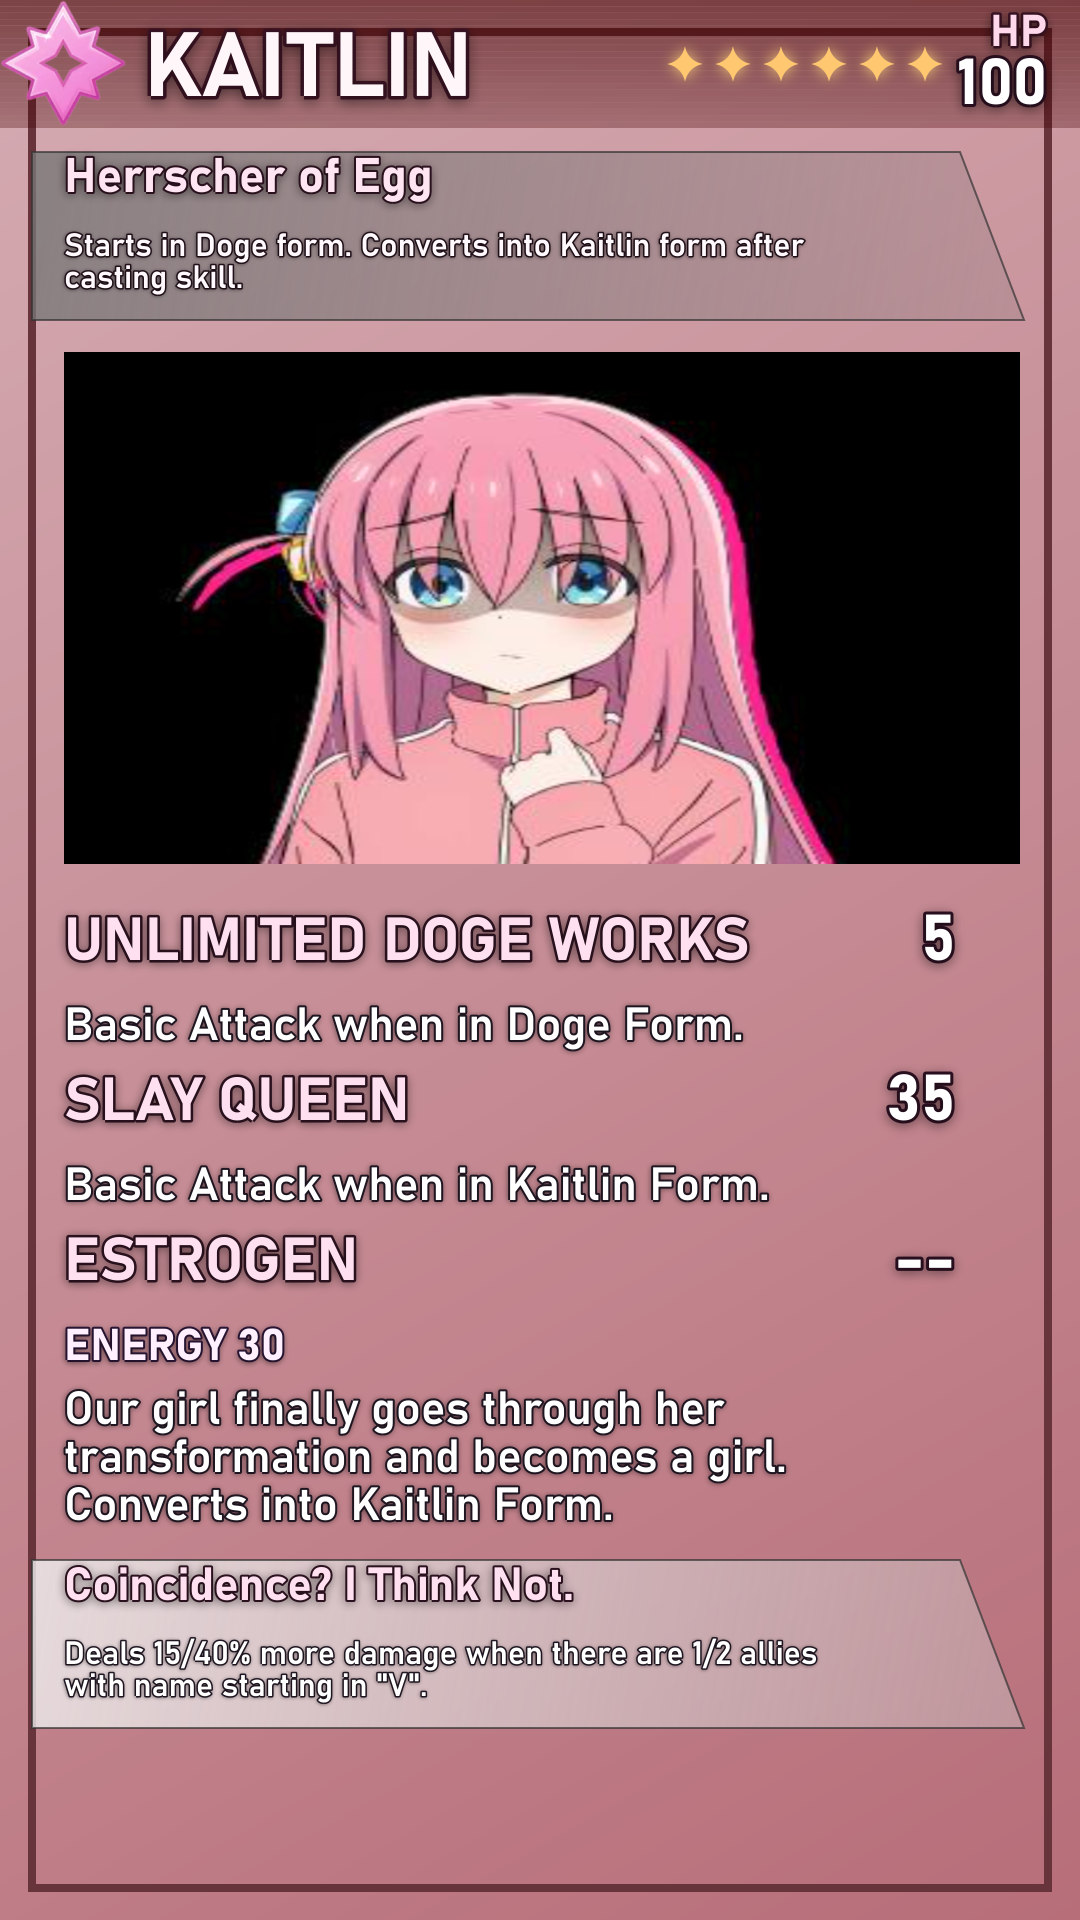
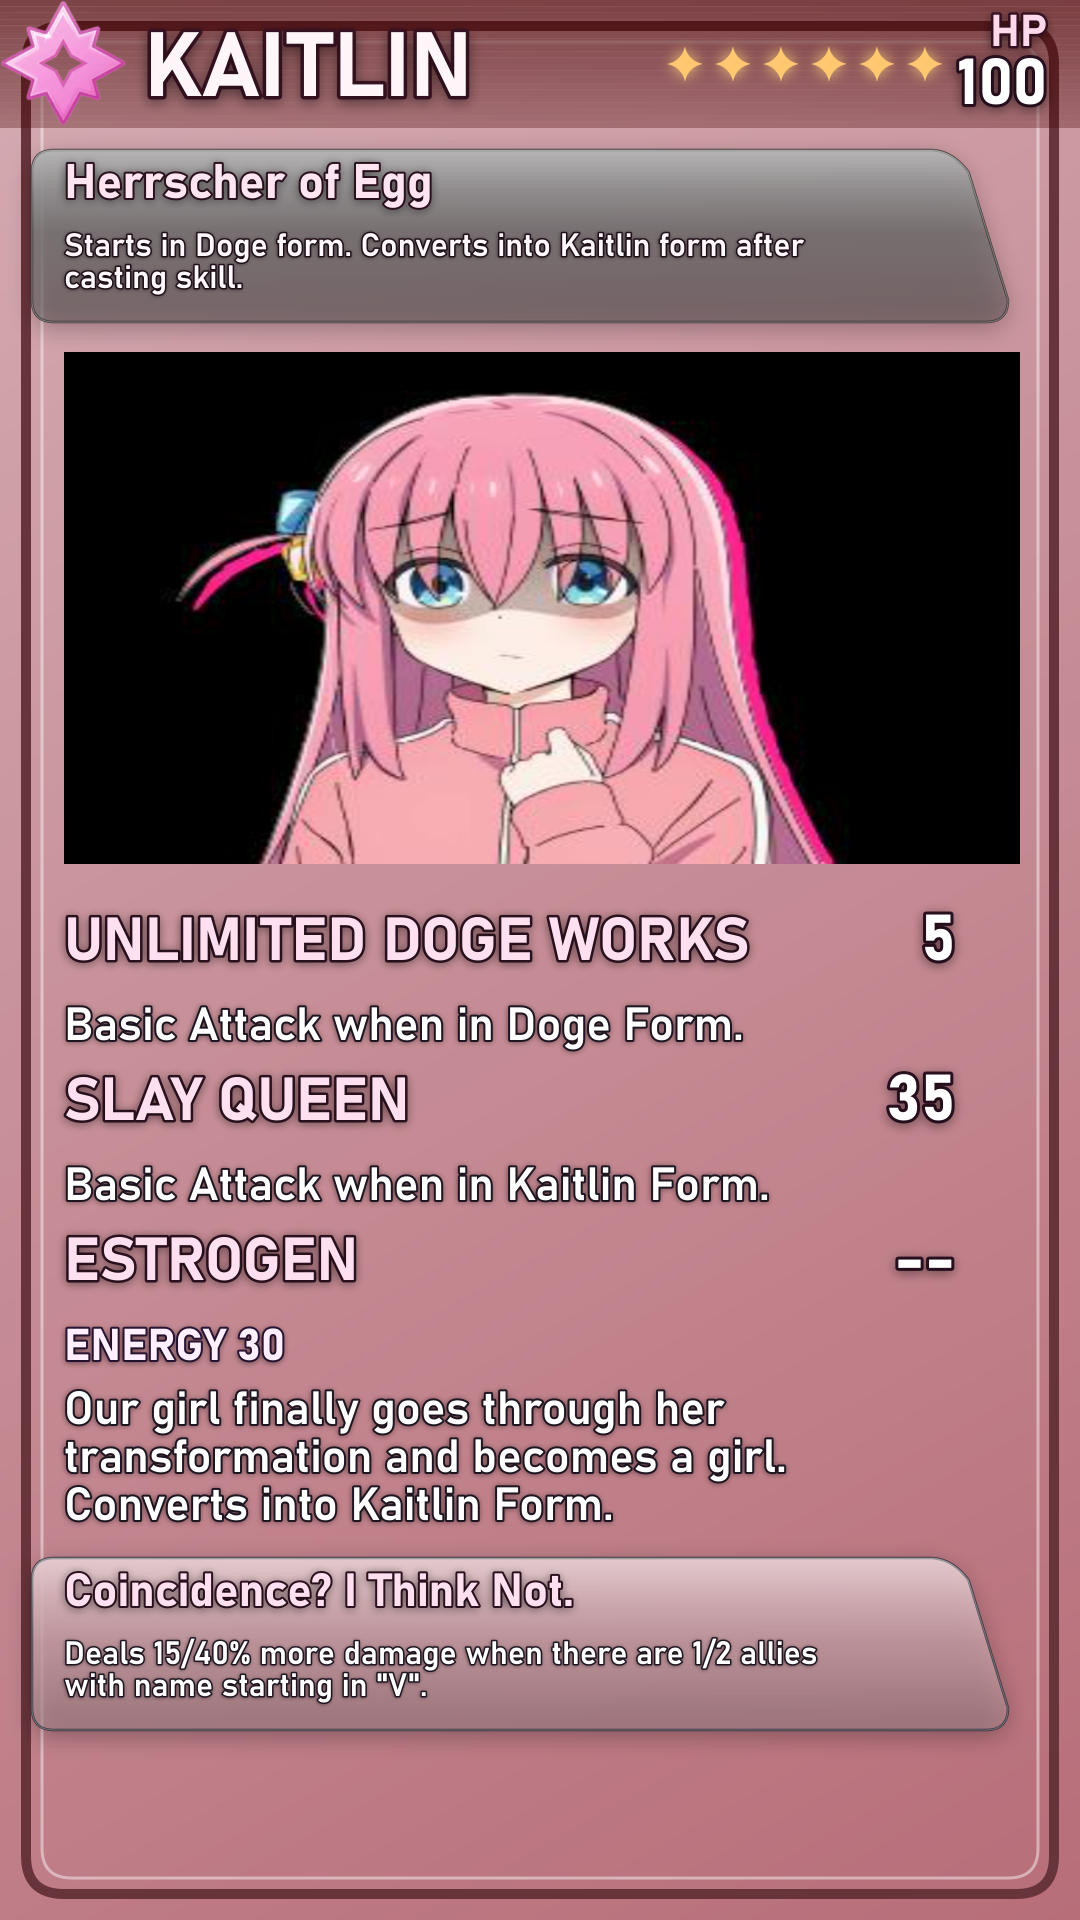
feat[card]: c i r c l e

Changed region(s): [[0.0, 0.0312, 1.0, 1.0], [0.0917, 0.0, 0.9167, 0.0312]]

diff --git a/tcg/ability.ts b/tcg/ability.ts
@@ -36,11 +36,13 @@ export class Ability implements DrawableBlock {
   name: string;
   description: string;
   effectPairs: AbilityEffectPair[];
+  panelColor: string;
 
-  constructor(name: string, description: string, effectPairs: AbilityEffectPair[] = []) {
+  constructor(name: string, description: string, effectPairs: AbilityEffectPair[] = [], panelColor: string = '#D6DDE8') {
     this.name = name;
     this.description = description;
     this.effectPairs = effectPairs;
+    this.panelColor = panelColor;
   }
 
   toString(): string {
@@ -117,6 +119,8 @@ export class Ability implements DrawableBlock {
     const maxTextWidth = 800; // Maximum width for text wrapping
     const nameLineHeight = 48;
     const descLineHeight = 32;
+    const topTextPadding = 6;
+    const nameToDescSpacing = 10;
 
     // Wrap text
     ctx.font = '48px "Bahnschrift"';
@@ -128,43 +132,106 @@ export class Ability implements DrawableBlock {
     // Calculate total height needed
     const nameHeight = calculateWrappedTextHeight(nameLines, nameLineHeight);
     const descHeight = calculateWrappedTextHeight(descLines, descLineHeight);
-    const totalTextHeight = nameHeight + descHeight + 16; // 16px spacing between name and description
+    const totalTextHeight = topTextPadding + nameHeight + nameToDescSpacing + descHeight;
 
-    // Trapezium dimensions - now dynamic based on text height
-    const trapeziumHeight = Math.max(120, totalTextHeight + 40); // Minimum 120px, or text height + padding
-    const trapeziumTopWidth = maxTextWidth + 128; // Text width + padding
-    const trapeziumBottomWidth = trapeziumTopWidth + 64; // Slightly wider at bottom
-    const trapeziumLeft = 32; // Starting position
-    const trapeziumTop = currentY - 40; // Position above the text
+    // Trapezium dimensions (tuned to match title panel styling)
+    const trapeziumHeight = Math.max(120, totalTextHeight + 44);
+    const trapeziumTopWidth = maxTextWidth + 120;
+    const trapeziumBottomWidth = trapeziumTopWidth + 56;
+    const trapeziumLeft = 32;
+    const trapeziumTop = currentY - 42;
+    const cornerRadius = 22;
+    const rightTop = trapeziumLeft + trapeziumTopWidth;
+    const rightBottom = trapeziumLeft + trapeziumBottomWidth;
+
+    const drawTrapeziumPath = () => {
+      ctx.beginPath();
+      ctx.moveTo(trapeziumLeft + cornerRadius, trapeziumTop);
+      ctx.lineTo(rightTop - cornerRadius, trapeziumTop);
+      ctx.quadraticCurveTo(rightTop, trapeziumTop, rightTop + (cornerRadius * 0.75), trapeziumTop + cornerRadius);
+      ctx.lineTo(rightBottom, trapeziumTop + trapeziumHeight - cornerRadius);
+      ctx.quadraticCurveTo(rightBottom, trapeziumTop + trapeziumHeight, rightBottom - cornerRadius, trapeziumTop + trapeziumHeight);
+      ctx.lineTo(trapeziumLeft + cornerRadius, trapeziumTop + trapeziumHeight);
+      ctx.quadraticCurveTo(trapeziumLeft, trapeziumTop + trapeziumHeight, trapeziumLeft, trapeziumTop + trapeziumHeight - cornerRadius);
+      ctx.lineTo(trapeziumLeft, trapeziumTop + cornerRadius);
+      ctx.quadraticCurveTo(trapeziumLeft, trapeziumTop, trapeziumLeft + cornerRadius, trapeziumTop);
+      ctx.closePath();
+    };
+
+    // Convert hex color to RGB for tunable trapezium tint
+    const hexToRgb = (hex: string) => {
+      const result = /^#?([a-f\d]{2})([a-f\d]{2})([a-f\d]{2})$/i.exec(hex);
+      return result ? {
+        r: parseInt(result[1], 16),
+        g: parseInt(result[2], 16),
+        b: parseInt(result[3], 16),
+      } : null;
+    };
 
     // Create gradient for trapezium
     const gradient = ctx.createLinearGradient(
       trapeziumLeft,
       trapeziumTop,
-      trapeziumLeft + trapeziumBottomWidth,
+      trapeziumLeft,
       trapeziumTop + trapeziumHeight,
     );
-    gradient.addColorStop(0, 'rgba(240, 240, 240, 0.8)'); // Translucent light gray at top
-    gradient.addColorStop(0.5, 'rgba(220, 220, 220, 0.6)'); // More translucent in middle
-    gradient.addColorStop(1, 'rgba(200, 200, 200, 0.4)'); // Most translucent at bottom
+    const panelRgb = hexToRgb(this.panelColor);
+    if (panelRgb) {
+      gradient.addColorStop(0, `rgba(${panelRgb.r}, ${panelRgb.g}, ${panelRgb.b}, 0.92)`);
+      gradient.addColorStop(0.55, `rgba(${panelRgb.r}, ${panelRgb.g}, ${panelRgb.b}, 0.72)`);
+      gradient.addColorStop(1, `rgba(${panelRgb.r}, ${panelRgb.g}, ${panelRgb.b}, 0.44)`);
+    } else {
+      gradient.addColorStop(0, 'rgba(236, 241, 250, 0.92)');
+      gradient.addColorStop(0.55, 'rgba(214, 221, 233, 0.72)');
+      gradient.addColorStop(1, 'rgba(188, 197, 212, 0.44)');
+    }
+
+    // Draw panel drop shadow first so the panel pops from the background
+    ctx.save();
+    ctx.shadowColor = 'rgba(0, 0, 0, 0.3)';
+    ctx.shadowBlur = 20;
+    ctx.shadowOffsetY = 7;
+    ctx.fillStyle = 'rgba(0, 0, 0, 0.2)';
+    drawTrapeziumPath();
+    ctx.fill();
+    ctx.restore();
 
     // Draw trapezium container with gradient
     ctx.fillStyle = gradient;
-    ctx.strokeStyle = 'rgba(51, 51, 51, 0.7)'; // Semi-transparent dark border
-    ctx.lineWidth = 2;
-
-    ctx.beginPath();
-    ctx.moveTo(trapeziumLeft, trapeziumTop);
-    ctx.lineTo(trapeziumLeft + trapeziumTopWidth, trapeziumTop);
-    ctx.lineTo(trapeziumLeft + trapeziumBottomWidth, trapeziumTop + trapeziumHeight);
-    ctx.lineTo(trapeziumLeft, trapeziumTop + trapeziumHeight);
-    ctx.closePath();
-
+    ctx.strokeStyle = 'rgba(30, 35, 45, 0.78)';
+    ctx.lineWidth = 2.5;
+    ctx.lineJoin = 'round';
+    ctx.lineCap = 'round';
+    drawTrapeziumPath();
     ctx.fill();
     ctx.stroke();
 
+    // Add a subtle top gloss
+    const glossGradient = ctx.createLinearGradient(
+      trapeziumLeft,
+      trapeziumTop,
+      trapeziumLeft,
+      trapeziumTop + (trapeziumHeight * 0.5),
+    );
+    glossGradient.addColorStop(0, 'rgba(255, 255, 255, 0.4)');
+    glossGradient.addColorStop(0.5, 'rgba(255, 255, 255, 0.16)');
+    glossGradient.addColorStop(1, 'rgba(255, 255, 255, 0)');
+
+    ctx.save();
+    drawTrapeziumPath();
+    ctx.clip();
+    ctx.fillStyle = glossGradient;
+    ctx.fillRect(trapeziumLeft, trapeziumTop, trapeziumBottomWidth + 8, trapeziumHeight * 0.54);
+    ctx.restore();
+
+    // Thin inner highlight to improve edge readability
+    ctx.strokeStyle = 'rgba(255, 255, 255, 0.28)';
+    ctx.lineWidth = 1.1;
+    drawTrapeziumPath();
+    ctx.stroke();
+
     // Draw ability name on top of trapezium
-    drawWrappedTcgText(ctx, nameLines, 64, currentY, nameLineHeight, {
+    drawWrappedTcgText(ctx, nameLines, 64, currentY + topTextPadding, nameLineHeight, {
       font: '700 46px "Bahnschrift"',
       fillStyle: textColors.abilityNameFill,
       strokeStyle: textColors.abilityNameStroke,
@@ -174,7 +241,7 @@ export class Ability implements DrawableBlock {
       shadowOffsetY: 2,
     });
 
-    currentY += nameHeight + 16; // Add spacing between name and description
+    currentY += topTextPadding + nameHeight + nameToDescSpacing;
 
     // Draw ability description on top of trapezium
     drawWrappedTcgText(ctx, descLines, 64, currentY, descLineHeight, {

diff --git a/tcg/titleDesc.ts b/tcg/titleDesc.ts
@@ -29,6 +29,8 @@ export class TitleDesc implements DrawableBlock {
     const maxTextWidth = 800; // Maximum width for text wrapping
     const titleLineHeight = 48;
     const descLineHeight = 32;
+    const topTextPadding = 6;
+    const titleToDescSpacing = 10;
 
     // Wrap text
     ctx.font = '48px "Bahnschrift"';
@@ -40,20 +42,37 @@ export class TitleDesc implements DrawableBlock {
     // Calculate total height needed
     const titleHeight = calculateWrappedTextHeight(titleLines, titleLineHeight);
     const descHeight = calculateWrappedTextHeight(descLines, descLineHeight);
-    const totalTextHeight = titleHeight + descHeight + 16; // 16px spacing between title and description
+    const totalTextHeight = topTextPadding + titleHeight + titleToDescSpacing + descHeight;
 
-    // Trapezium dimensions - now dynamic based on text height
-    const trapeziumHeight = Math.max(100, totalTextHeight + 40); // Minimum 100px, or text height + padding
-    const trapeziumTopWidth = maxTextWidth + 128; // Text width + padding
-    const trapeziumBottomWidth = trapeziumTopWidth + 64; // Slightly wider at bottom
-    const trapeziumLeft = 32; // Starting position
-    const trapeziumTop = currentY - 40; // Position above the text
+    // Trapezium dimensions (tuned for a softer, more polished panel shape)
+    const trapeziumHeight = Math.max(104, totalTextHeight + 44);
+    const trapeziumTopWidth = maxTextWidth + 120;
+    const trapeziumBottomWidth = trapeziumTopWidth + 56;
+    const trapeziumLeft = 32;
+    const trapeziumTop = currentY - 42;
+    const cornerRadius = 22;
+    const rightTop = trapeziumLeft + trapeziumTopWidth;
+    const rightBottom = trapeziumLeft + trapeziumBottomWidth;
+
+    const drawTrapeziumPath = () => {
+      ctx.beginPath();
+      ctx.moveTo(trapeziumLeft + cornerRadius, trapeziumTop);
+      ctx.lineTo(rightTop - cornerRadius, trapeziumTop);
+      ctx.quadraticCurveTo(rightTop, trapeziumTop, rightTop + (cornerRadius * 0.75), trapeziumTop + cornerRadius);
+      ctx.lineTo(rightBottom, trapeziumTop + trapeziumHeight - cornerRadius);
+      ctx.quadraticCurveTo(rightBottom, trapeziumTop + trapeziumHeight, rightBottom - cornerRadius, trapeziumTop + trapeziumHeight);
+      ctx.lineTo(trapeziumLeft + cornerRadius, trapeziumTop + trapeziumHeight);
+      ctx.quadraticCurveTo(trapeziumLeft, trapeziumTop + trapeziumHeight, trapeziumLeft, trapeziumTop + trapeziumHeight - cornerRadius);
+      ctx.lineTo(trapeziumLeft, trapeziumTop + cornerRadius);
+      ctx.quadraticCurveTo(trapeziumLeft, trapeziumTop, trapeziumLeft + cornerRadius, trapeziumTop);
+      ctx.closePath();
+    };
 
     // Create gradient for trapezium using this.color
     const gradient = ctx.createLinearGradient(
       trapeziumLeft,
       trapeziumTop,
-      trapeziumLeft + trapeziumBottomWidth,
+      trapeziumLeft,
       trapeziumTop + trapeziumHeight,
     );
 
@@ -69,33 +88,62 @@ export class TitleDesc implements DrawableBlock {
 
     const rgb = hexToRgb(this.color);
     if (rgb) {
-      gradient.addColorStop(0, `rgba(${rgb.r}, ${rgb.g}, ${rgb.b}, 0.8)`); // Translucent at top
-      gradient.addColorStop(0.5, `rgba(${rgb.r}, ${rgb.g}, ${rgb.b}, 0.5)`); // More translucent in middle
-      gradient.addColorStop(1, `rgba(${rgb.r}, ${rgb.g}, ${rgb.b}, 0.2)`); // Most translucent at bottom
+      gradient.addColorStop(0, `rgba(${rgb.r}, ${rgb.g}, ${rgb.b}, 0.92)`);
+      gradient.addColorStop(0.55, `rgba(${rgb.r}, ${rgb.g}, ${rgb.b}, 0.68)`);
+      gradient.addColorStop(1, `rgba(${rgb.r}, ${rgb.g}, ${rgb.b}, 0.34)`);
     } else {
       // Fallback to original gray colors if color parsing fails
-      gradient.addColorStop(0, 'rgba(240, 240, 240, 0.8)');
-      gradient.addColorStop(0.5, 'rgba(220, 220, 220, 0.5)');
-      gradient.addColorStop(1, 'rgba(200, 200, 200, 0.2)');
+      gradient.addColorStop(0, 'rgba(245, 245, 245, 0.9)');
+      gradient.addColorStop(0.55, 'rgba(225, 225, 225, 0.65)');
+      gradient.addColorStop(1, 'rgba(205, 205, 205, 0.34)');
     }
+
+    // Draw panel drop shadow first so the panel pops from the background
+    ctx.save();
+    ctx.shadowColor = 'rgba(0, 0, 0, 0.28)';
+    ctx.shadowBlur = 20;
+    ctx.shadowOffsetY = 7;
+    ctx.fillStyle = 'rgba(0, 0, 0, 0.22)';
+    drawTrapeziumPath();
+    ctx.fill();
+    ctx.restore();
 
     // Draw trapezium container with gradient
     ctx.fillStyle = gradient;
-    ctx.strokeStyle = 'rgba(51, 51, 51, 0.7)'; // Semi-transparent dark border
-    ctx.lineWidth = 2;
-
-    ctx.beginPath();
-    ctx.moveTo(trapeziumLeft, trapeziumTop);
-    ctx.lineTo(trapeziumLeft + trapeziumTopWidth, trapeziumTop);
-    ctx.lineTo(trapeziumLeft + trapeziumBottomWidth, trapeziumTop + trapeziumHeight);
-    ctx.lineTo(trapeziumLeft, trapeziumTop + trapeziumHeight);
-    ctx.closePath();
-
+    ctx.strokeStyle = 'rgba(32, 32, 32, 0.75)';
+    ctx.lineWidth = 2.5;
+    ctx.lineJoin = 'round';
+    ctx.lineCap = 'round';
+    drawTrapeziumPath();
     ctx.fill();
     ctx.stroke();
 
+    // Add a soft glossy band near the top for extra depth
+    const glossGradient = ctx.createLinearGradient(
+      trapeziumLeft,
+      trapeziumTop,
+      trapeziumLeft,
+      trapeziumTop + (trapeziumHeight * 0.48),
+    );
+    glossGradient.addColorStop(0, 'rgba(255, 255, 255, 0.45)');
+    glossGradient.addColorStop(0.5, 'rgba(255, 255, 255, 0.18)');
+    glossGradient.addColorStop(1, 'rgba(255, 255, 255, 0)');
+
+    ctx.save();
+    drawTrapeziumPath();
+    ctx.clip();
+    ctx.fillStyle = glossGradient;
+    ctx.fillRect(trapeziumLeft, trapeziumTop, trapeziumBottomWidth + 8, trapeziumHeight * 0.52);
+    ctx.restore();
+
+    // Thin inner highlight so edges read cleaner against busy backgrounds
+    ctx.strokeStyle = 'rgba(255, 255, 255, 0.34)';
+    ctx.lineWidth = 1.1;
+    drawTrapeziumPath();
+    ctx.stroke();
+
     // Draw title on top of trapezium
-    drawWrappedTcgText(ctx, titleLines, 64, currentY, titleLineHeight, {
+    drawWrappedTcgText(ctx, titleLines, 64, currentY + topTextPadding, titleLineHeight, {
       font: '700 48px "Bahnschrift"',
       fillStyle: textColors.titleFill,
       strokeStyle: textColors.titleStroke,
@@ -105,7 +153,7 @@ export class TitleDesc implements DrawableBlock {
       shadowOffsetY: 2,
     });
 
-    currentY += titleHeight + 16; // Add spacing between title and description
+    currentY += topTextPadding + titleHeight + titleToDescSpacing;
 
     // Draw description on top of trapezium
     drawWrappedTcgText(ctx, descLines, 64, currentY, descLineHeight, {

diff --git a/tcg/background.ts b/tcg/background.ts
@@ -55,6 +55,31 @@ export class Background implements DrawableFixed {
     this.topBarOptions = topBarOptions;
   }
 
+  private buildRoundedRectPath(
+    ctx: Canvas.CanvasRenderingContext2D,
+    x: number,
+    y: number,
+    width: number,
+    height: number,
+    radius: number,
+  ): void {
+    const boundedRadius = Math.min(radius, width / 2, height / 2);
+    const right = x + width;
+    const bottom = y + height;
+
+    ctx.beginPath();
+    ctx.moveTo(x + boundedRadius, y);
+    ctx.lineTo(right - boundedRadius, y);
+    ctx.quadraticCurveTo(right, y, right, y + boundedRadius);
+    ctx.lineTo(right, bottom - boundedRadius);
+    ctx.quadraticCurveTo(right, bottom, right - boundedRadius, bottom);
+    ctx.lineTo(x + boundedRadius, bottom);
+    ctx.quadraticCurveTo(x, bottom, x, bottom - boundedRadius);
+    ctx.lineTo(x, y + boundedRadius);
+    ctx.quadraticCurveTo(x, y, x + boundedRadius, y);
+    ctx.closePath();
+  }
+
   async draw(ctx: Canvas.CanvasRenderingContext2D): Promise<void> {
     // Draw background
     switch (this.backgroundType) {
@@ -81,9 +106,22 @@ export class Background implements DrawableFixed {
 
     // Draw border
     if (this.borderColor) {
+      const outerInset = 26;
+      const outerRadius = 38;
+      const innerInset = 42;
+      const innerRadius = 30;
+
       ctx.strokeStyle = this.borderColor;
-      ctx.lineWidth = 8;
-      ctx.strokeRect(32, 32, 1016, 1856);
+      ctx.lineWidth = 10;
+      ctx.lineJoin = 'round';
+      ctx.lineCap = 'round';
+      this.buildRoundedRectPath(ctx, outerInset, outerInset, 1080 - (outerInset * 2), 1920 - (outerInset * 2), outerRadius);
+      ctx.stroke();
+
+      ctx.strokeStyle = 'rgba(255, 255, 255, 0.45)';
+      ctx.lineWidth = 3;
+      this.buildRoundedRectPath(ctx, innerInset, innerInset, 1080 - (innerInset * 2), 1920 - (innerInset * 2), innerRadius);
+      ctx.stroke();
     }
 
     // Draw top bar

diff --git a/tcg/characters.ts b/tcg/characters.ts
@@ -112,6 +112,7 @@ export const KAITLIN = createCharacter({
     createAbility({
       name: 'Coincidence? I Think Not.',
       description: 'Deals 15/40% more damage when there are 1/2 allies with name starting in "V".',
+      panelColor: '#D5ABB2',
       effects: [
         createAbilityEffect({
           range: RangeType.Self,
@@ -343,6 +344,7 @@ export const SILVERWOLF = createCharacter({
       return createAbility({
         name: 'Awaiting System Response...',
         description: "After attacking an opponent, implants one of the following three effects on them for 3 turns: increases incoming damage by 10%, decreases outgoing damage by 10%, or decreases energy gain by 10%.",
+        panelColor: '#5539CC',
         effects: [
           createAbilityEffect({
             range: RangeType.SingleOpponent,

diff --git a/tcg/rarity.ts b/tcg/rarity.ts
@@ -24,7 +24,7 @@ export class Rarity implements DrawableFixed {
     let x = 1080 - 128 - starSize - starSpacing;
     const y = (topBarHeight - starSize) / 2;
 
-    // Add a soft golden glow around stars for a more premium TCG look.
+    // Add a soft golden glow around stars
     ctx.save();
     ctx.shadowColor = 'rgba(255, 215, 120, 0.9)';
     ctx.shadowBlur = 12;

diff --git a/tcg/characterBuilder.ts b/tcg/characterBuilder.ts
@@ -143,8 +143,9 @@ export function createAbility(params: {
   name: string;
   description: string;
   effects: AbilityEffectPair[];
+  panelColor?: string;
 }): Ability {
-  return new Ability(params.name, params.description, params.effects);
+  return new Ability(params.name, params.description, params.effects, params.panelColor);
 }
 
 /**
